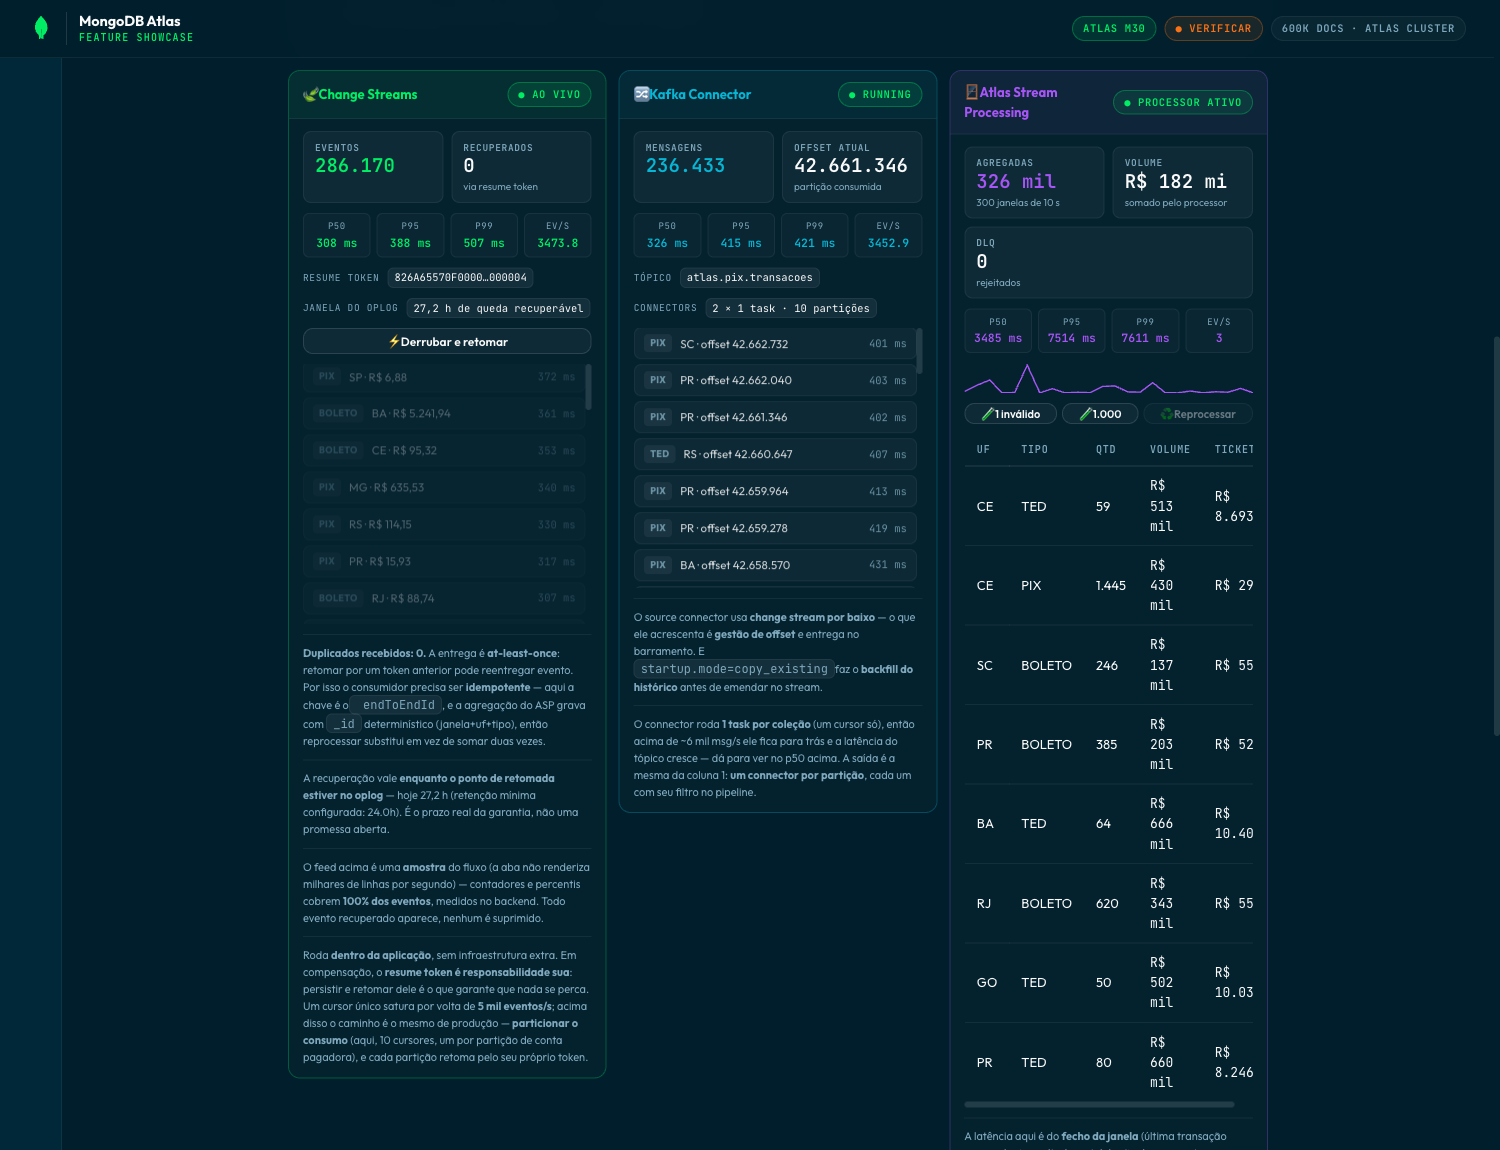
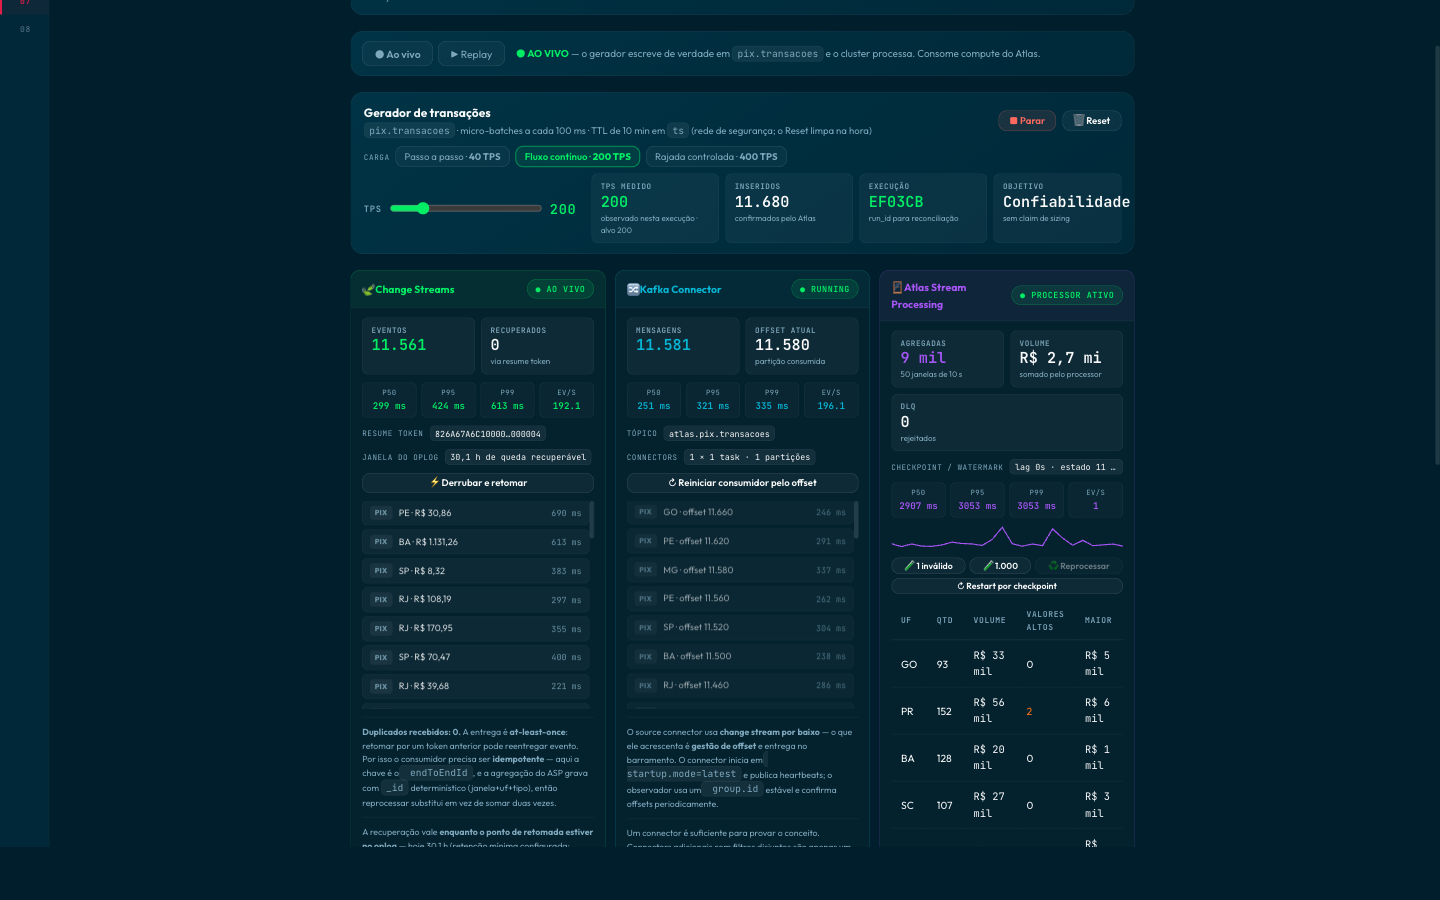
docs: regravar screenshots e cobrir os módulos Geo e replay
As imagens 01–06 eram de 2 de julho, anteriores à revisão de Aggregations,
Reindexação e Schema; as de Streaming eram de 26 de julho, anteriores aos
presets atuais (40/200/400 TPS), ao TTL de 10 min e ao seletor de modo. O
módulo 08 (Geo) nunca teve screenshot.

- todas regravadas em 1440×900, o viewport de demonstração
- 08-geo.png: novo, com execução real — explain comparando 62 chaves contra
  38.044 no mesmo $geoWithin, trajeto plotado e busca com facetas
- 07c-streaming-negocio.png era órfã (não referenciada em lugar nenhum) e deu
  lugar a 07c-streaming-replay.png, que documenta o modo replay com o selo
  visível e os quatro caminhos fechando em 12.040

diff --git a/README.md b/README.md
@@ -80,9 +80,13 @@ description of what these pipelines do.
 |---|---|
 | ![Schema Validation](docs/screenshots/04-schema.png) | ![Change Streams](docs/screenshots/05-changestreams.png) |
 
-| ACID Transactions |
-|---|
-| ![Transactions](docs/screenshots/06-transactions.png) |
+| ACID Transactions | Geo |
+|---|---|
+| ![Transactions](docs/screenshots/06-transactions.png) | ![Geo](docs/screenshots/08-geo.png) |
+
+The Geo shot is a live run: the explain comparison reads 62 index keys against
+38,044 for the same `$geoWithin`, the impossible-travel table plots the selected
+trip, and the search panel returns its facets — all from one cluster.
 
 ## Stack
 
@@ -305,6 +309,13 @@ already running when the page opens, the connector will have published thousands
 of messages while the group was still joining, the consumer starts at the tail,
 and the Kafka column reads zero for that run — which also blocks reconciliation.
 Wait for the Kafka column to report `consumindo`, then start the generator.
+
+![Replay mode with the run reconciled](docs/screenshots/07c-streaming-replay.png)
+
+The badge above the generator is always present and names the recorded run. In
+that shot the four paths agree at 12,040 with zero duplicates and an empty DLQ —
+figures measured during the recording, replayed here without touching the
+cluster.
 
 Record a run with the environment up:
 
